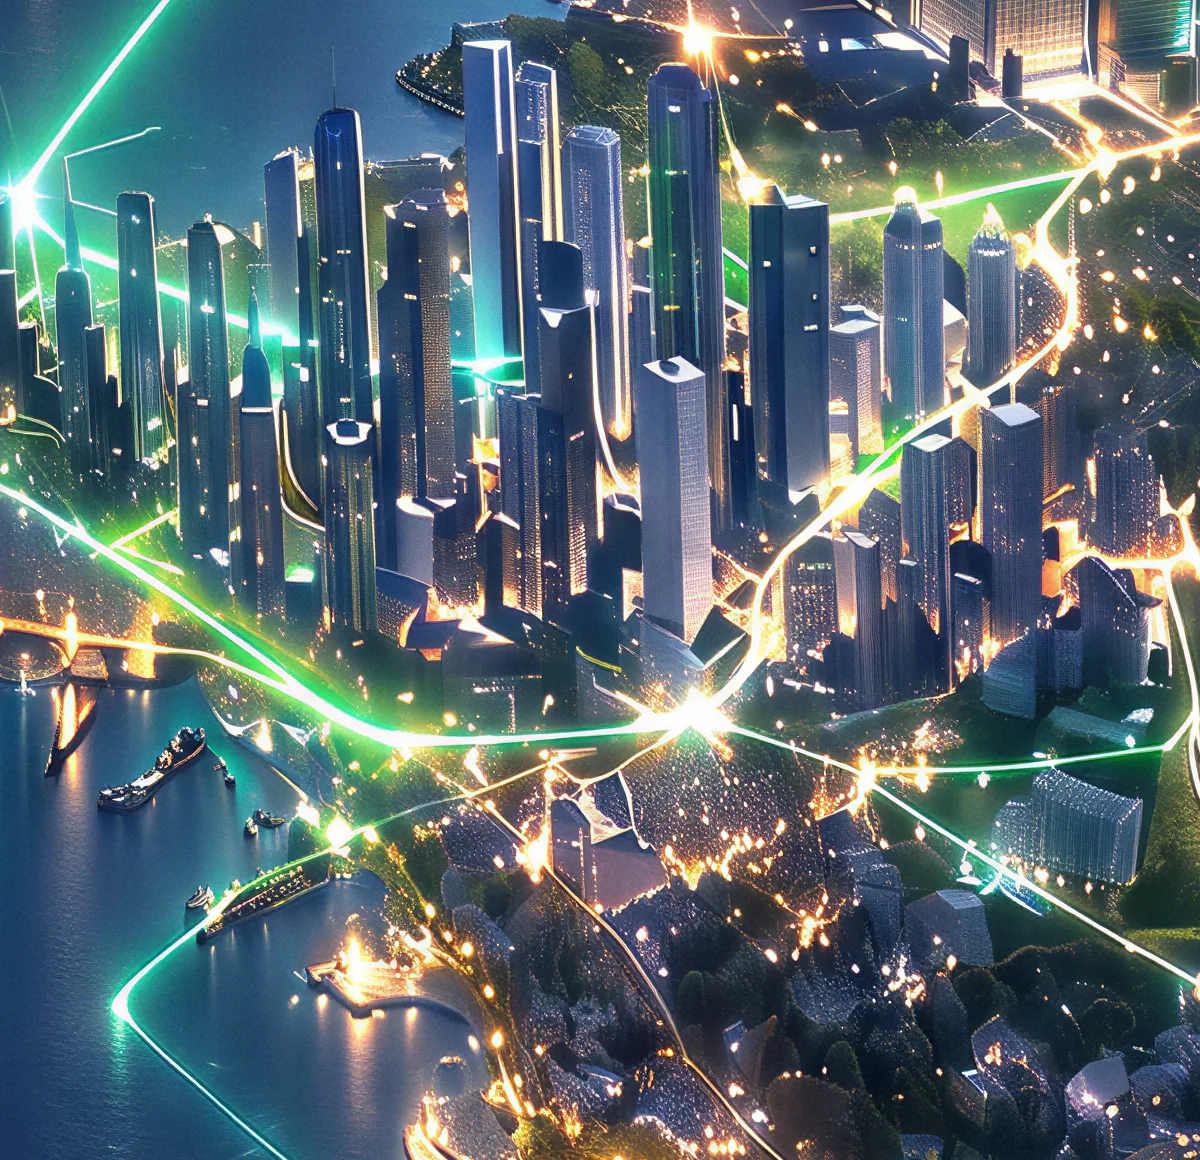
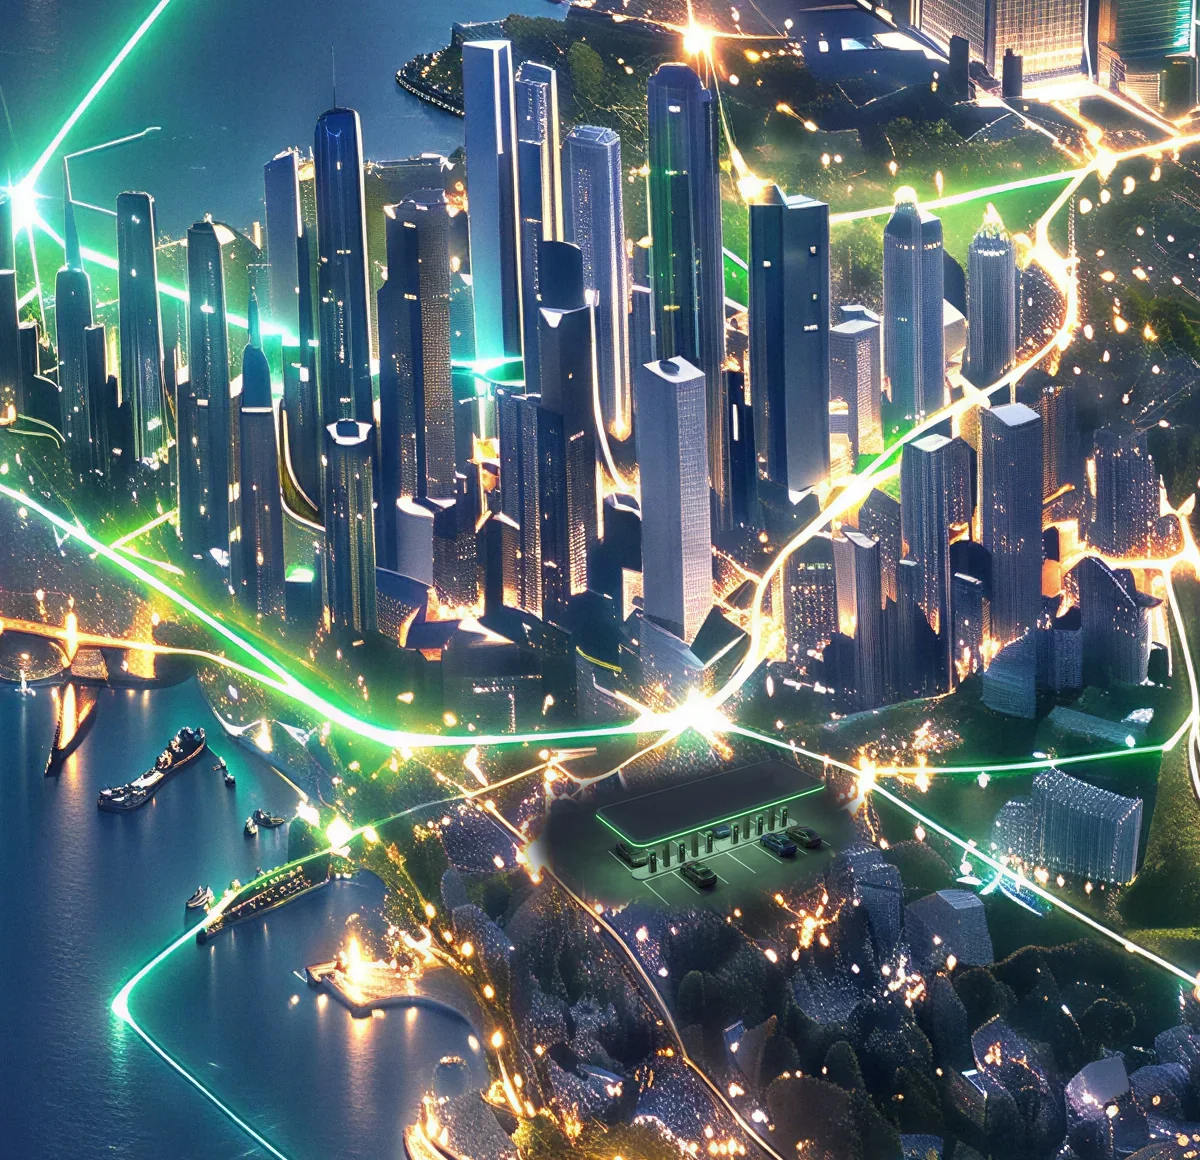
Hero experiment: a real charging hub at the charging stop, a slower scroll on desktop

Changed region(s): [[0.4317, 0.6517, 0.74, 0.8069]]

diff --git a/assets/js/lab-hero.js b/assets/js/lab-hero.js
@@ -41,7 +41,7 @@ const ZMAX = 2.6; // how close the camera lands before it pulls back over the wh
 const SETS = {
   wide: { on: "assets/img/lab/wide-on.webp", off: "assets/img/lab/wide-off.webp", near: "assets/img/lab/wide-near.webp", w: 2752, h: 1536, base: [0.5, 0.52],
     src: [0.47, 0.555], horizon: 0.21, sun: [0.6, 0.213],
-    pins: { sol: [0.156, 0.57], sto: [0.512, 0.336], chg: [0.47, 0.555], srv: [0.884, 0.69] },
+    pins: { sol: [0.156, 0.57], sto: [0.512, 0.336], chg: [0.482, 0.68], srv: [0.884, 0.69] },
     line: [[0.483, 0.647], [0.46, 0.648], [0.44, 0.648], [0.42, 0.645], [0.4, 0.629], [0.38, 0.618], [0.36, 0.602], [0.34, 0.591],
       [0.32, 0.578], [0.302, 0.562], [0.2625, 0.579], [0.225, 0.593]],
     fly: { zoom: 1.5, foe: [0.5, 0.46] },
@@ -54,7 +54,7 @@ const SETS = {
       stops: [
         { k: "sol", u: [0.155, 0.583], z: 1.6, side: 1, fx: 1, O: [0.0563, 0.5811], A: [0.1381, -0.054], B: [0.0418, 0.0573], ring: [0.155, 0.585, 0.122, 0.36, -9] },
         { k: "sto", u: [0.54, 0.485], z: 2.6, side: -1, fx: 2, O: [0.494, 0.52], A: [0.083, 0], B: [0, -0.072], ring: [0.535, 0.505, 0.06, 0.42, -4] },
-        { k: "chg", u: [0.475, 0.61], z: 1.9, side: 1, fx: 3, ring: [0.48, 0.63, 0.095, 0.4, 0] },
+        { k: "chg", u: [0.482, 0.665], z: 2.5, side: 1, fx: 3, ring: [0.482, 0.68, 0.075, 0.4, 0] },
         { k: "srv", u: [0.885, 0.7], z: 2.1, side: -1, fx: 4, O: [0.805, 0.756], A: [0.155, 0], B: [0, -0.104], ring: [0.883, 0.712, 0.095, 0.4, -6] },
       ],
       patches: [["sol", [0.03815, 0.42253, 0.27798, 0.74805]], ["sto", [0.42006, 0.32552, 0.65988, 0.65104]],
@@ -62,7 +62,7 @@ const SETS = {
     } },
   tall: { on: "assets/img/lab/tall-on.webp", off: "assets/img/lab/tall-off.webp", near: "assets/img/lab/tall-near.webp", w: 1536, h: 2752, base: [0.5, 0.5],
     src: [0.55, 0.575], horizon: 0.255, sun: [0.826, 0.263],
-    pins: { sol: [0.16, 0.585], sto: [0.63, 0.367], chg: [0.55, 0.575], srv: [0.7, 0.487] },
+    pins: { sol: [0.16, 0.585], sto: [0.63, 0.367], chg: [0.594, 0.647], srv: [0.7, 0.487] },
     line: [[0.594, 0.6243], [0.536, 0.6254], [0.487, 0.6243], [0.4536, 0.615], [0.412, 0.599], [0.371, 0.585], [0.33, 0.571],
       [0.2887, 0.554], [0.231, 0.5656], [0.165, 0.579]],
     fly: { zoom: 1.35, foe: [0.5, 0.42] },
@@ -72,7 +72,7 @@ const SETS = {
       stops: [
         { k: "sol", u: [0.1, 0.578], z: 1.8, side: 0, fx: 1, O: [-0.17, 0.592], A: [0.3004, -0.0658], B: [0.0914, 0.0407], ring: [0.075, 0.58, 0.15, 0.36, -9] },
         { k: "sto", u: [0.68, 0.485], z: 2.4, side: 0, fx: 2, O: [0.603, 0.511], A: [0.156, 0], B: [0, -0.053], ring: [0.68, 0.5, 0.11, 0.42, -4] },
-        { k: "chg", u: [0.565, 0.6], z: 2, side: 0, fx: 3, ring: [0.58, 0.62, 0.15, 0.4, 0] },
+        { k: "chg", u: [0.592, 0.638], z: 2.4, side: 0, fx: 3, ring: [0.594, 0.647, 0.12, 0.4, 0] },
         { k: "srv", u: [0.37, 0.355], z: 2, side: 0, fx: 5, ring: [0.375, 0.37, 0.12, 0.4, 0] },
       ],
       patches: [["sol", [0, 0.47275, 0.30534, 0.6835]], ["sto", [0.48438, 0.38263, 0.875, 0.59339]],
@@ -228,11 +228,11 @@ void main(){
       col = mix(col, col * vec3(.5, 1.18, .78) + G * .14, below * bld * inside * uFxK * .9);
       col += G * exp(-pow((ab.y - uFxT) / .011, 2.)) * (.35 + bld) * inside * uFxK * 1.3;
     } else if (uFx < 3.5) {
-      // charging: the energy runs in along every line to the hub under the city, and the city's lights come up
+      // charging: the energy runs in along every line to the charging hub (made into the picture, 19.10) and lights it
       float pl = pow(.5 + .5 * sin(rr * 70. + uTime * 5.), 16.);
       col += G * m * pl * smoothstep(.24, .02, rr) * uFxK * 1.3;
       col *= 1. + warm * .4 * uFxK * smoothstep(.22, .0, rr);
-      col += G * exp(-rr * rr * 1400.) * uFxK * (.45 + .25 * sin(uTime * 3.));
+      col += G * exp(-rr * rr * 1400.) * uFxK * (.12 + .08 * sin(uTime * 3.));
     } else if (uFx < 4.5) {
       // the data center: its windows flicker and a scan runs up through it
       float lit2 = smoothstep(.28, .55, lum(on)) * smoothstep(0., .06, on.b - on.r);
@@ -396,7 +396,9 @@ function readScroll() {
   target = span > 0 ? clamp01(-r.top / span) : 0;
 }
 addEventListener("scroll", readScroll, { passive: true });
-const lenis = (fly || tour) && !reduce && window.Lenis ? new window.Lenis({ autoRaf: false, lerp: 0.12 }) : null;
+// on a desktop the tour follows the wheel more softly too (with its longer way in the css)
+const slowDesk = tour && matchMedia("(min-width:1024px)").matches;
+const lenis = (fly || tour) && !reduce && window.Lenis ? new window.Lenis({ autoRaf: false, lerp: slowDesk ? 0.085 : 0.12 }) : null;
 
 // the page's living night, as on the home page
 let sky = null;
@@ -568,15 +570,16 @@ let flyUntil = 0;
 function glide(y, duration) { flyUntil = performance.now() + duration * 1000 + 120; lenis.scrollTo(y, { duration, easing: (t) => (t < 0.5 ? 2 * t * t : 1 - Math.pow(2 - 2 * t, 2) / 2) }); }
 function goStop(i) {
   const y = yAt(TT.t0 + i * SEG + TT.tr + 0.012);
-  if (lenis) glide(y, 1.1 + 0.35 * Math.abs(i - Math.max(0, TS.to)));
+  if (lenis) glide(y, (slowDesk ? 1.4 : 1.1) + 0.35 * Math.abs(i - Math.max(0, TS.to)));
   else scrollTo({ top: y, behavior: "smooth" });
 }
 // a flight left half way settles: past its middle on to the next place, before it back to the last one
 let idleT = 0;
 function settle() {
   if (!tourOn || !lenis || performance.now() < flyUntil || TS.mode !== "go" || TS.raw < 0.03 || TS.raw > 0.97) return;
-  const pa = TT.t0 + TS.to * SEG;
-  glide(yAt(TS.raw < 0.5 ? (TS.to === 0 ? 0 : pa - 0.004) : pa + TT.tr + 0.012), 0.9);
+  // on a desktop the way is longer, so a short push of the wheel already carries on in the way it went
+  const pa = TT.t0 + TS.to * SEG, mid = slowDesk ? (lenis.direction < 0 ? 0.8 : 0.2) : 0.5;
+  glide(yAt(TS.raw < mid ? (TS.to === 0 ? 0 : pa - 0.004) : pa + TT.tr + 0.012), slowDesk ? 1.25 : 0.9);
 }
 // what the tour shows this frame: the marks, the words, and the shader's focus, frost, life and energy front
 const TU = { foc: [0.5, 0.5], focR: 1, focA: 0, panS: 1, panA: 0, fx: 0, fxK: 0, fxT: 0, fxO: [0, 0], fxM: [1, 0, 0, 1], fxC: [0, 0], enO: [0, 0], enR: 0, enK: 0,

diff --git a/assets/css/lab-hero.css b/assets/css/lab-hero.css
@@ -24,6 +24,9 @@ html[data-v="fly"] .lb{height:400vh}
 html.no-gl[data-v="fly"] .lb{height:100vh}
 /* the tour (the default, 19.10): the opening, four places with a flight and a stop each, and the scene sinking away */
 html[data-v="tour"] .lb{height:560vh}
+/* a desktop wheel moves the story further per notch than a finger on a phone, so a desktop gets a longer way
+   (Liav 19.10: "להאט קצת את קצב הגלילה בדסקטופ, זה מרגיש שזה מתקדם מהר מדי") */
+@media (min-width:1024px){html[data-v="tour"] .lb{height:760vh}}
 html.no-gl[data-v="tour"] .lb{height:100vh}
 .lb-stage{position:sticky;top:0;height:100vh;height:100svh;overflow:hidden;background:var(--night-0)}
 /* the scene sinks into the page's own night, so the stage has none of its own */
